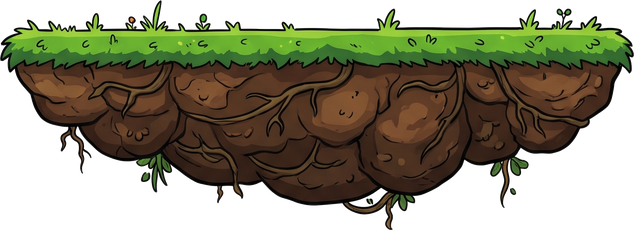
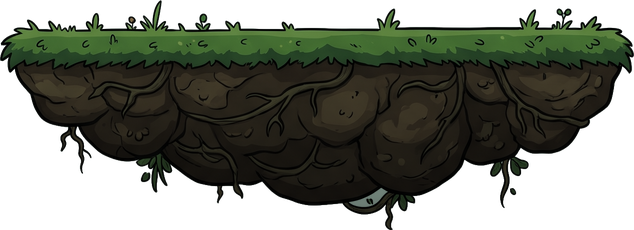
가로 시험판: 발판을 배경 색에 맞추고 장면 전체에 같은 빛을 입힘
Claude-Session: https://claude.ai/code/session_019ctizXkAJK8e2QXDcDEkS2

diff --git a/가로시험.html b/가로시험.html
@@ -112,13 +112,13 @@ function drawBack() {
     else ctx.drawImage(bg, x, 0, bw + 1, H);
     ctx.restore();
   }
-  ctx.fillStyle = 'rgba(8,16,12,0.18)'; ctx.fillRect(0, 0, W, H);          // 먼 배경을 한 톤 눌러 앞쪽이 살게 한다
+            // 먼 배경을 한 톤 눌러 앞쪽이 살게 한다
 }
 function drawPlats() {
   for (const p of PLATS) { const im = IMG[p.img]; ctx.drawImage(im, p.x - cam, p.y - p.top); }
   const g = IMG.ground, gw = g.width; if (!gw) return;
   for (let x = -((cam) % gw) - gw; x < W + gw; x += gw) ctx.drawImage(g, x, GROUND - 44);
-  ctx.fillStyle = '#1b130c'; ctx.fillRect(0, GROUND - 44 + g.height - 2, W, H);
+  ctx.fillStyle = '#0d0b08'; ctx.fillRect(0, GROUND - 44 + g.height - 2, W, H);
 }
 function shadow(x, y, r) { ctx.fillStyle = 'rgba(0,0,0,0.28)'; ctx.beginPath(); ctx.ellipse(x, y + 4, r, r * 0.22, 0, 0, 7); ctx.fill(); }
 
@@ -170,6 +170,23 @@ function drawKnight() {
     ctx.strokeStyle = '#ffd27a'; ctx.lineWidth = 6; ctx.beginPath(); ctx.arc(0, 0, 122, -0.9, 0.8); ctx.stroke(); ctx.restore();
   }
 }
+// 장면 전체에 같은 빛을 입힌다: 숲 그늘 색을 곱하고, 위에서 내려오는 아침 햇살을 더하고, 가장자리를 어둡게.
+let LIGHT = null;
+function drawLight() {
+  if (!LIGHT) {
+    LIGHT = document.createElement('canvas'); LIGHT.width = W; LIGHT.height = H; const c = LIGHT.getContext('2d');
+    const g = c.createRadialGradient(W * 0.55, -80, 60, W * 0.55, 200, 1000);
+    g.addColorStop(0, 'rgba(255,236,190,0.30)'); g.addColorStop(0.5, 'rgba(255,230,180,0.10)'); g.addColorStop(1, 'rgba(255,230,180,0)');
+    c.fillStyle = g; c.fillRect(0, 0, W, H);
+  }
+  ctx.save();
+  ctx.globalCompositeOperation = 'multiply'; ctx.fillStyle = 'rgb(206,224,214)'; ctx.fillRect(0, 0, W, H);
+  ctx.globalCompositeOperation = 'screen'; ctx.drawImage(LIGHT, 0, 0);
+  ctx.globalCompositeOperation = 'source-over';
+  const v = ctx.createRadialGradient(W / 2, H / 2, H * 0.45, W / 2, H / 2, W * 0.72);
+  v.addColorStop(0, 'rgba(4,10,8,0)'); v.addColorStop(1, 'rgba(4,10,8,0.55)'); ctx.fillStyle = v; ctx.fillRect(0, 0, W, H);
+  ctx.restore();
+}
 function drawHud() {
   ctx.font = 'bold 34px sans-serif'; ctx.textBaseline = 'top'; ctx.lineJoin = 'round';
   const say = (s, x, y, c, a) => { ctx.textAlign = a || 'left'; ctx.lineWidth = 6; ctx.strokeStyle = 'rgba(0,0,0,0.7)'; ctx.strokeText(s, x, y); ctx.fillStyle = c; ctx.fillText(s, x, y); };
@@ -186,6 +203,7 @@ function frame(now) {
   drawBack(); drawPlats();
   const all = mobs.map(m => ({ y: m.y, f: () => drawMob(m) })).concat([{ y: knight.jump ? 9999 : knight.y + 1, f: drawKnight }]).sort((a, b) => a.y - b.y);
   for (const a of all) a.f();
+  drawLight();
   drawHud();
   requestAnimationFrame(frame);
 }

diff --git a/tools/가로자산.py b/tools/가로자산.py
@@ -24,11 +24,23 @@ def 먼배경():
     im.save(os.path.join(ROOT, 'art/맵/1-1-먼배경.jpg'), quality=86); print('먼배경', im.size)
 
 
+def 색맞춤(im):
+    """밝은 만화 색의 발판을 먼 배경의 색(어두운 청록 숲)에 맞춘다: 채도를 낮추고, 숲 그늘 색을 입히고, 아래로 갈수록 어둡게."""
+    a = np.asarray(im.convert('RGBA')).astype(np.float32); rgb = a[..., :3]
+    grey = rgb.mean(axis=2, keepdims=True)
+    rgb = grey + (rgb - grey) * 0.58                         # 채도
+    rgb = rgb * np.array([0.74, 0.86, 0.80]) * 0.86          # 숲 그늘 색
+    h = a.shape[0]; fall = np.linspace(1.06, 0.62, h)[:, None, None]   # 윗면은 빛을 받고 아래는 그늘
+    a[..., :3] = np.clip(rgb * fall, 0, 255)
+    return Image.fromarray(a.astype(np.uint8), 'RGBA')
+
+
 def 발판():
     m = importlib.import_module('무기자르기')
     for p, size in m.split(os.path.join(ROOT, 'art/맵/원본/1구역-발판.png'), os.path.join(ROOT, 'art/맵'),
                            ['1구역-땅', '1구역-발판-중', '1구역-발판-소', '1구역-통나무']):
-        im = Image.open(p); im = im.resize((im.width // 2, im.height // 2), Image.LANCZOS); im.save(p); print(os.path.basename(p), im.size)
+        im = Image.open(p); im = im.resize((im.width // 2, im.height // 2), Image.LANCZOS)
+        im = 색맞춤(im); im.save(p); print(os.path.basename(p), im.size)
 
 
 def 인형(g='남'):
